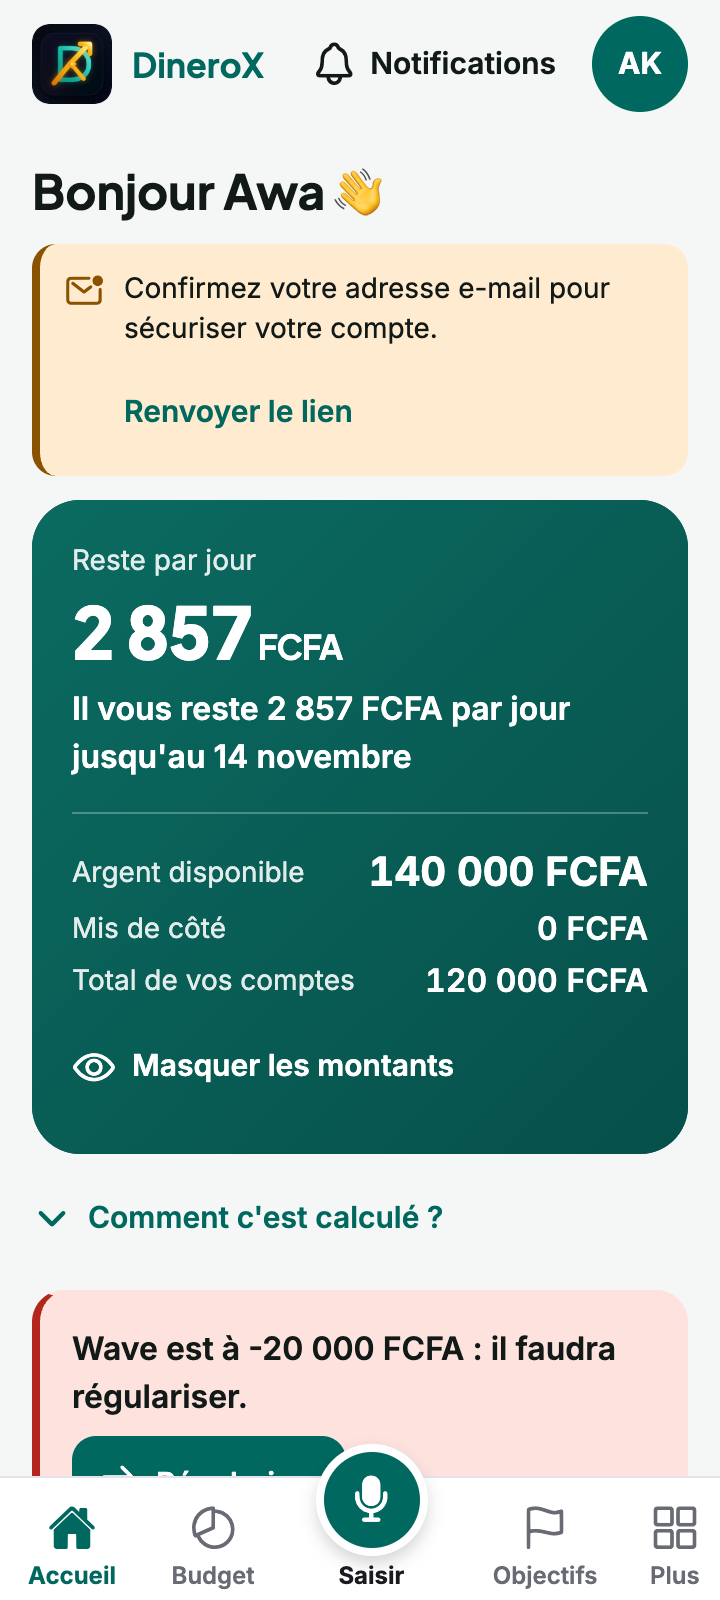
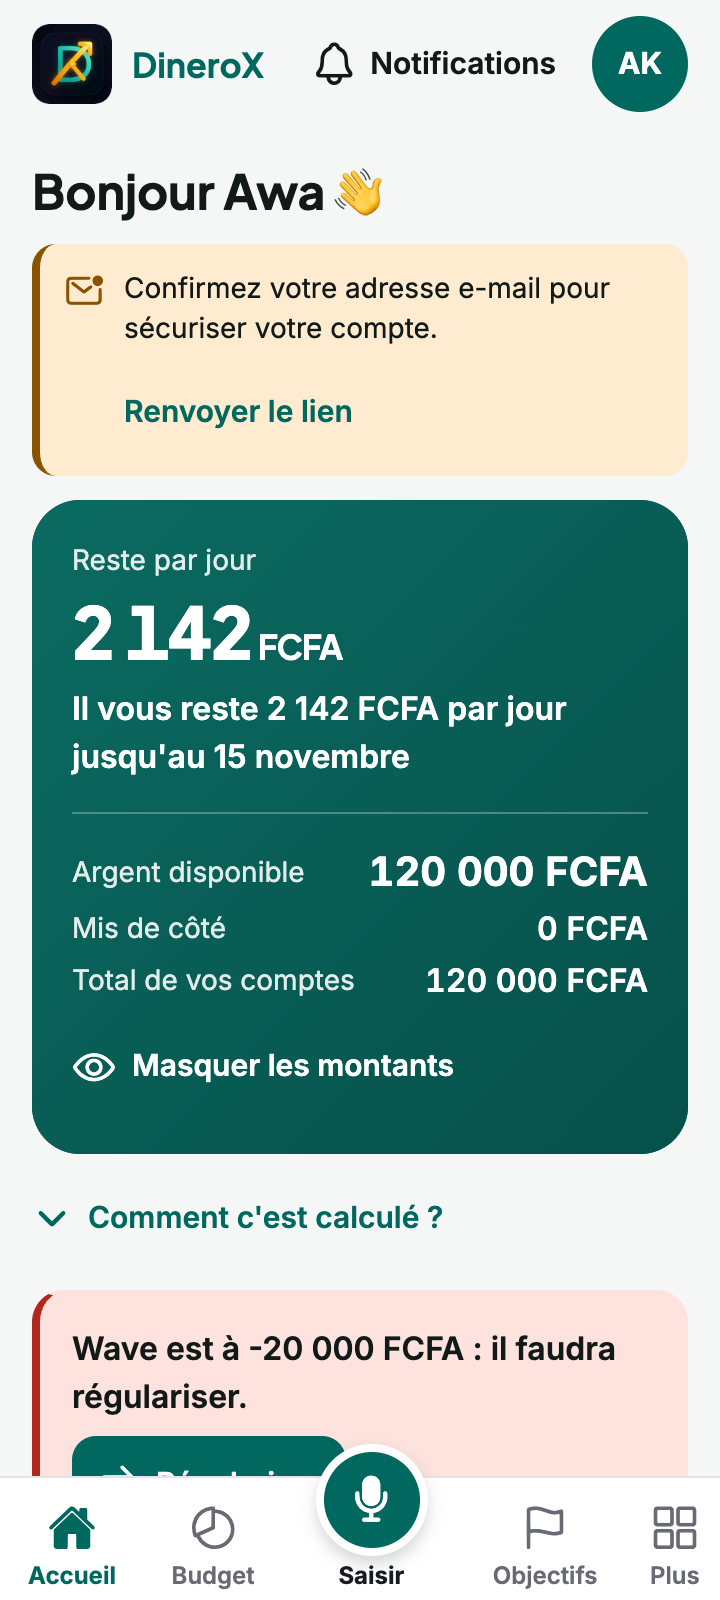
Captures refaites (09, 10, 14, 17, 19, 22, 23, 25, 27) après les corrections de relecture

Changed region(s): [[0.3056, 0.4375, 0.7944, 0.5], [0.1833, 0.375, 0.3667, 0.4375], [0.55, 0.5312, 0.5806, 0.5625]]

diff --git a/dinerox/e2e/captures-argent-v2.js b/dinerox/e2e/captures-argent-v2.js
@@ -114,7 +114,10 @@ async function run(size) {
   await step('22-budget-reste-a-repartir', async () => {
     await go('/envelopes/edit'); await fill('Nom', 'Maison', true); await fill('Budget mensuel', '50000'); await tap('Maison & logement'); await btn('Enregistrer', { w: 1500 });
     await setFinancial(uid, 'monthlyIncome', 400000); await p.waitForTimeout(1500);
-    await go('/budget'); await shot('22-budget-reste-a-repartir');
+    await go('/budget');
+    // La ligne « Remboursements de dettes du mois » est sous les enveloppes : on la fait venir à l'écran.
+    await p.getByText('Remboursements de dettes du mois', { exact: false }).first().scrollIntoViewIfNeeded().catch(() => {}); await p.waitForTimeout(500);
+    await shot('22-budget-reste-a-repartir', false);
   });
   await step('23-analyse', async () => { await go('/analysis'); await shot('23-analyse'); });
   await step('24-score', async () => { await go('/score'); await shot('24-score'); });

diff --git a/dinerox/docs/captures-argent-v2/index.md b/dinerox/docs/captures-argent-v2/index.md
@@ -19,25 +19,25 @@ amorcés directement dans l'émulateur (`e2e/seed.js`).
 | `06-feuille-complement` | Dépense plus grande que le compte : « Il manque … sur Cash pour cette dépense. D'où voulez-vous les prendre ? », les autres comptes avec leur montant libre, « J'ai reçu de l'argent ». | §6.3 |
 | `07-feuille-j-ai-recu` | « Quel argent avez-vous reçu ? » : un revenu, un emprunt, un remboursement d'un prêt accordé, une cagnotte de tontine. | §6.3 |
 | `08-transfert-frais` | Transfert avec le champ « Frais (facultatif) » (enregistrés en « Frais d'envoi et de retrait »). | §3.4 |
-| `09-accueil-cartes` | Accueil avec états amorcés : Wave sous zéro (« il faudra régulariser »), cartes « payé ? / reçu ? » des échéances, liste « À régulariser », salaire attendu. L'argent disponible (140 000) dépasse le total des comptes (120 000) : D compte max(0, solde) par compte (§6.4), le total compte Wave à −20 000. | §6.4, §8 |
-| `10-compte-edition` | Édition d'un compte : solde actuel, solde de départ et sa provenance, bouton « Corriger le solde ». | §3.2 |
+| `09-accueil-cartes` | Accueil avec états amorcés : Wave sous zéro (« il faudra régulariser »), cartes « payé ? / reçu ? » des échéances, liste « À régulariser », salaire attendu. Argent disponible 120 000 = total des comptes : la partie négative non couverte de Wave (−20 000) est retirée de D (E40c, jamais 140 000). | §4, §6.4, §8 |
+| `10-compte-edition` | Édition d'un compte qui a déjà des opérations (Wave) : solde actuel, « Argent déjà sur ce compte » en lecture seule avec sa provenance, bouton « Corriger le solde ». | §3.2 |
 | `11-feuille-corriger-le-solde` | « Solde réel constaté » + date + « Motif » : l'écart devient une correction (ni revenu ni dépense). | §3.2 |
 | `12-feuille-reste-desactivation` | Désactiver un compte qui contient encore de l'argent : « Transférer le reste » ou « Constater une perte ». | §3.3 |
 | `13-epargne-origine` | Nouveau compte d'épargne : « D'où vient cet argent ? » (pris sur le disponible, ou épargne que j'avais déjà). | §5 |
-| `14-objectif-origine` | Nouvel objectif avec montant initial : disponible, compte d'épargne ou hors de mes comptes. | §5 |
+| `14-objectif-origine` | Nouvel objectif avec « Montant de départ (facultatif) » : disponible, compte d'épargne ou hors de mes comptes. | §5 |
 | `15-feuille-fermeture-poche` | Archiver un objectif qui contient de l'argent : « Où va l'argent ? » (remettre dans mon disponible / garder sur l'épargne). | §5.1 |
 | `16-dette-compte` | Nouvelle dette : « Sur quel compte l'argent est-il arrivé ? » (obligatoire, ou « Hors de mes comptes »). | §5.5 |
-| `17-remboursement-interets` | Remboursement avec « Dont intérêts (facultatif) » : le capital baisse la dette, les intérêts sont une dépense. | §5.5 |
+| `17-remboursement-interets` | Remboursement : « Depuis quel compte ? » (compte exigé, « Hors de mes comptes » seulement s'il a été payé autrement) et « Dont intérêts (facultatif) ». | §5.5 |
 | `18-dette-cloture` | Fiche de la dette après le remboursement de 55 000 dont 5 000 d'intérêts : seuls 50 000 de capital sont remboursés (reste 150 000), « Marquer comme soldée » pour clore (remise ou abandon du reste). | §5.5 |
-| `19-tontine-cloturer` | Tontine dont le cycle est passé : bandeau « clôturer ? » et bilan. | §5.6 |
+| `19-tontine-cloturer` | Tontine dont le cycle est passé, « Clôturer » : la feuille dit d'abord « 3 cotisations et la cagnotte ne sont pas notées » et propose de les noter (cagnotte au montant modifiable), puis « Clôturer sans les noter ». | §5.4 |
 | `20-rapport` | Rapport du mois par nature : revenus, dépenses, remboursements, résultat, financements, corrections, pertes. | §10 |
 | `21-releve-compte` | Historique filtré sur un compte : relevé (solde au début, entrées, sorties, solde à la fin). | §10.2 |
-| `22-budget-reste-a-repartir` | Budget : « Reste à répartir » calculé sur l'argent réel, part du revenu déclaré par enveloppe. | §9 |
-| `23-analyse` | Analyse : marge sur les mois clos, « Pas encore assez de données » sinon. | §11 |
+| `22-budget-reste-a-repartir` | Budget, bas de l'écran : enveloppes avec leur part du revenu déclaré, puis la ligne à part « Remboursements de dettes du mois : 50 000 » (le capital ; les 5 000 d'intérêts sont des dépenses : « Dépenses hors enveloppe » passe de 55 000 à 5 000 en haut de l'écran). | §9 (E44b) |
+| `23-analyse` | Analyse : « Pas encore assez de données » en entier (retour à la ligne) ; sans mois clos, toutes les lignes du tableau portent sur le mois en cours (« ce mois-ci »), sinon sur les mois clos (« par mois »). | §11 |
 | `24-score` | Score de comportement v2 : taux d'épargne, vivre selon ses moyens, épargne de précaution, budget, dettes et échéances. | §11 |
-| `25-reserve-origine` | Nouvelle réserve famille : plafond et montant de départ. | §5 |
+| `25-reserve-origine` | Nouvelle réserve famille : plafond et « Montant de départ ». | §5 |
 | `26-inscription-sources-sans-montant` | Profil financier : plus de saisie d'argent présent (l'argent se déclare compte par compte). | §2 |
-| `27-historique` | Historique : totaux « Revenus / Dépenses » par nature (transferts et corrections exclus). | §10.2 |
+| `27-historique` | Historique : totaux « Revenus / Dépenses » par nature ; l'emprunt et le remboursement de la dette affichent leur nature (« Emprunt reçu », « Remboursement de dette »), jamais « Autres revenus ». | §2.3, §10.2 |
 
 Un fichier `…-ERREUR.png` signalerait une étape que le script n'a pas pu atteindre ; il n'y en
 a aucun dans la version commitée.
